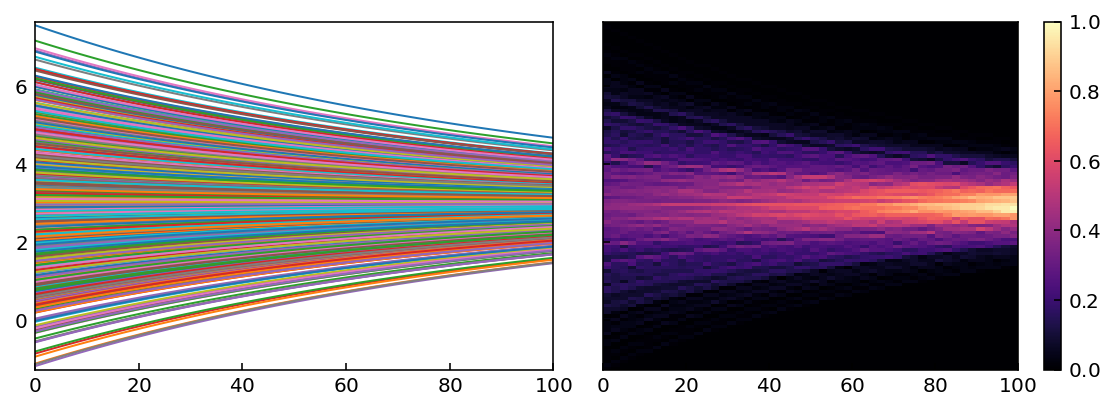
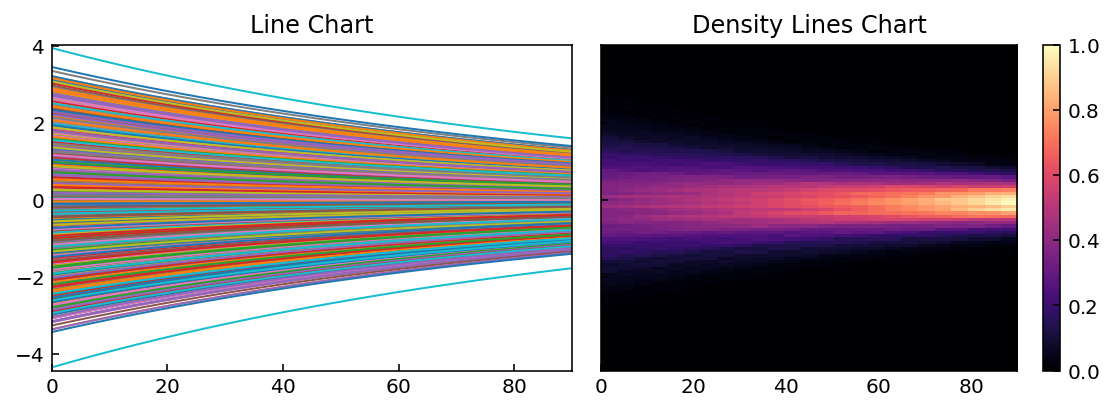
Update docs

diff --git a/pydlc/_plot.py b/pydlc/_plot.py
@@ -1,0 +1,76 @@
+# @Author: charles
+# @Date:   2021-06-05 09:06:98
+# @Email:  charles.berube@polymtl.ca
+# @Last modified by:   charles
+# @Last modified time: 2021-06-05 11:06:20
+
+
+import numpy as np
+import matplotlib.pyplot as plt
+
+
+def dense_lines(ys, x=None, ny=100, ax=None, pad_y=0.01, normalize=True,
+                **kwargs):
+    """Returns a Density Line Chart.
+
+    Args:
+        ys (:obj:`list` of :obj:`1darrays`): The lines to plot.
+        x (:obj:`1darray`, optional): The x values corresponding to
+            the data passed with `ys`. If not provided, range(0, len(ys))
+            is used.
+        ny (:obj:`int`, optional): The vertical grid size. Higher values
+            yield a smoother density estimation. Lower values may yield a
+            pixelated result. Default: 100.
+        ax (:obj:`matplotlib axes`, optional): The axes to plot on. If not
+            provided a new figure will be created.
+        pad_y (:obj:`float`, optional): The padding fraction to establish the
+            grid limits past the data values. Must be greater than 0.
+            Default: 0.01 (1%).
+        normalize (:obj:`bool`, optional): Normalize the plot so the density
+            is between 0 and 1. Default: True.
+        **kwargs: Arbitrary keyword arguments to pass to plt.imshow().
+
+    Returns:
+        A plt.imshow() object.
+
+    """
+    if ax is None:
+        ax = plt.gca()
+
+    if isinstance(ys, list):
+        ys = np.array(ys)
+
+    assert isinstance(ys, np.ndarray), (
+           "`ys` must be a list of 1D arrays or a 2D array")
+
+    assert pad_y > 0, (
+           "`pad_y` must be greater than 0")
+
+    if x is None:
+        x = np.arange(ys.shape[1])
+
+    kwargs.setdefault('aspect', 'auto')
+    kwargs.setdefault('origin', 'lower')
+
+    drange = ys.max() - ys.min()
+    gridy = np.linspace(ys.min() - pad_y*drange,
+                        ys.max() + pad_y*drange,
+                        ny)
+    gridx = np.linspace(x.min(),  # unused for now
+                        x.max(),
+                        x.shape[0])
+
+    grid = np.zeros((ys.shape[0], gridy.shape[0], gridx.shape[0]))
+    indices = np.searchsorted(gridy, ys) - 1
+
+    for i, idx in enumerate(indices):
+        grid[i, idx, range(len(x))] = 1
+
+    grid = np.sum(grid, axis=0)
+
+    if normalize:
+        grid /= grid.max()
+
+    extent = (gridx.min(), gridx.max(), gridy.min(), gridy.max())
+    img = ax.imshow(grid, extent=extent, **kwargs)
+    return img

diff --git a/setup.py b/setup.py
@@ -1,0 +1,31 @@
+# @Author: charles
+# @Date:   2021-06-06 09:06:59
+# @Email:  charles.berube@polymtl.ca
+# @Last modified by:   charles
+# @Last modified time: 2021-06-06 09:06:98
+
+
+from distutils.core import setup
+setup(
+  name = 'pydlc',         # How you named your package folder (MyLib)
+  packages = ['pydlc'],   # Chose the same as "name"
+  version = '0.1',      # Start with a small number and increase it with every change you make
+  license='MIT',        # Chose a license from here: https://help.github.com/articles/licensing-a-repository
+  description = 'Python implementation of the Density Line Chart (Moritz & Fisher, 2018) to visualize large collections of time series.',   # Give a short description about your library
+  author = 'Charles L. Bérubé',                   # Type in your name
+  author_email = 'charles.berube@polymtl.ca',      # Type in your E-Mail
+  url = 'https://github.com/clberube/pydlc',   # Provide either the link to your github or to your website
+  download_url = 'https://github.com/user/reponame/archive/v_01.tar.gz',    # I explain this later on
+  keywords = ['data visualization', 'density', 'time series'],   # Keywords that define your package best
+  install_requires=[            # I get to this in a second
+          'numpy',
+          'matplotlib',
+      ],
+  classifiers=[
+    'Development Status :: 4 - Beta',      # Chose either "3 - Alpha", "4 - Beta" or "5 - Production/Stable" as the current state of your package
+    'Intended Audience :: Scientists',      # Define that your audience are developers
+    'Topic :: Software Development :: Build Tools',
+    'License :: OSI Approved :: MIT License',   # Again, pick a license
+    'Programming Language :: Python :: 3',      #Specify which pyhton versions that you want to support
+  ],
+)

diff --git a/tests.py b/tests.py
@@ -9,18 +9,21 @@ import numpy as np
 import matplotlib.pyplot as plt
 from pydlc import dense_lines
 
-# Generate random synthetic time series
-x = np.linspace(0, 100, 50)
-ys = []
-for _ in range(1000):
-    ys.append(3 + 1.5*np.random.randn(1)*np.exp(-x/100))
 
-# Plot here
-fig, axs = plt.subplots(1, 2, figsize=(8, 3), sharey=True, sharex=True)
-axs[0].plot(x, np.array(ys).T, lw=1)
-axs[0].set_title('Line Chart')
-im = dense_lines(ys, x=x, ax=axs[1], cmap='magma')  # accepts plt.imshow() kwargs
-axs[1].set_title('Density Lines Chart')
-fig.colorbar(im)
-fig.tight_layout()
-plt.show()
+if __name__ == "__main__":
+    # Generate random synthetic time series
+    x = np.linspace(0, 90, 25)
+    ys = []
+    for _ in range(10000):
+        ys.append(np.random.randn(1)*np.exp(-x/100))
+
+    # Plot here
+    fig, axs = plt.subplots(1, 2, figsize=(8, 3), sharey=True, sharex=True)
+    axs[0].plot(x, np.array(ys).T, lw=1)  # this is slow and cluttered
+    axs[0].set_title('Line Chart')
+    im = dense_lines(ys, x=x, ax=axs[1], cmap='magma')  # this is fast and clean
+    axs[1].set_title('Density Lines Chart')
+    fig.colorbar(im)
+    fig.tight_layout()
+    plt.savefig('./figures/example.png', dpi=144, bbox_inches='tight')
+    plt.show()

diff --git a/pydlc/__init__.py b/pydlc/__init__.py
@@ -4,4 +4,4 @@
 # @Last modified time: 2021-06-05 10:06:07
 
 
-from .plot import plot_dlines
+from ._plot import dense_lines

diff --git a/README.md b/README.md
@@ -26,19 +26,20 @@ import matplotlib.pyplot as plt
 from pydlc import dense_lines
 
 # Generate random synthetic time series
-x = np.linspace(0, 100, 50)
+x = np.linspace(0, 90, 25)
 ys = []
-for _ in range(1000):
-    ys.append(3 + 1.5*np.random.randn(1)*np.exp(-x/100))
+for _ in range(10000):
+    ys.append(np.random.randn(1)*np.exp(-x/100))
 
 # Plot here
 fig, axs = plt.subplots(1, 2, figsize=(8, 3), sharey=True, sharex=True)
-axs[0].plot(x, np.array(ys).T, lw=1)
+axs[0].plot(x, np.array(ys).T, lw=1)  # this is slow and cluttered
 axs[0].set_title('Line Chart')
-im = dense_lines(ys, x=x, ax=axs[1], cmap='magma')  # accepts plt.imshow() kwargs
+im = dense_lines(ys, x=x, ax=axs[1], cmap='magma')  # this is fast and clean
 axs[1].set_title('Density Lines Chart')
 fig.colorbar(im)
 fig.tight_layout()
+plt.savefig('./figures/example.png', dpi=144, bbox_inches='tight')
 plt.show()
 ```
 
